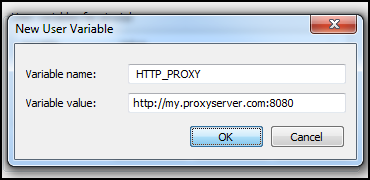
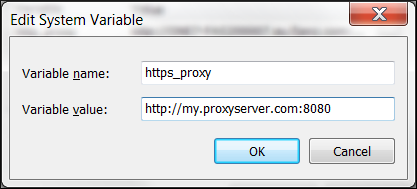
update-text-nav-files[#110477362]

diff --git a/cf-cli/index.html.md b/cf-cli/index.html.md
@@ -4,13 +4,11 @@ title: cf Command Line Interface (CLI)
 
 When deploying and managing your applications on Cloud Foundry, you'll use the cf command line interface (CLI).
 
-The current production version of the cf CLI is 6.x.
-
 Contents in this section:
 
-* [Installing cf CLI v6](./install-go-cli.html)
-* [Getting Started with the cf CLI](./whats-new-v6.html)
-* [Using the cf CLI with an HTTP Proxy Server](./http-proxy.html)
+* [Installing cf CLI](./install-go-cli.html)
+* [Getting Started with the cf CLI](./getting-started.html)
+* [Using the cf CLI with an HTTPS Proxy Server](./https-proxy.html)
 * [Using cf CLI Plugins](./use-cli-plugins.html)
 * [Developing cf CLI Plugins](./develop-cli-plugins.html)
 * [Scaling an Application Using cf scale](../deploy-apps/cf-scale.html)
